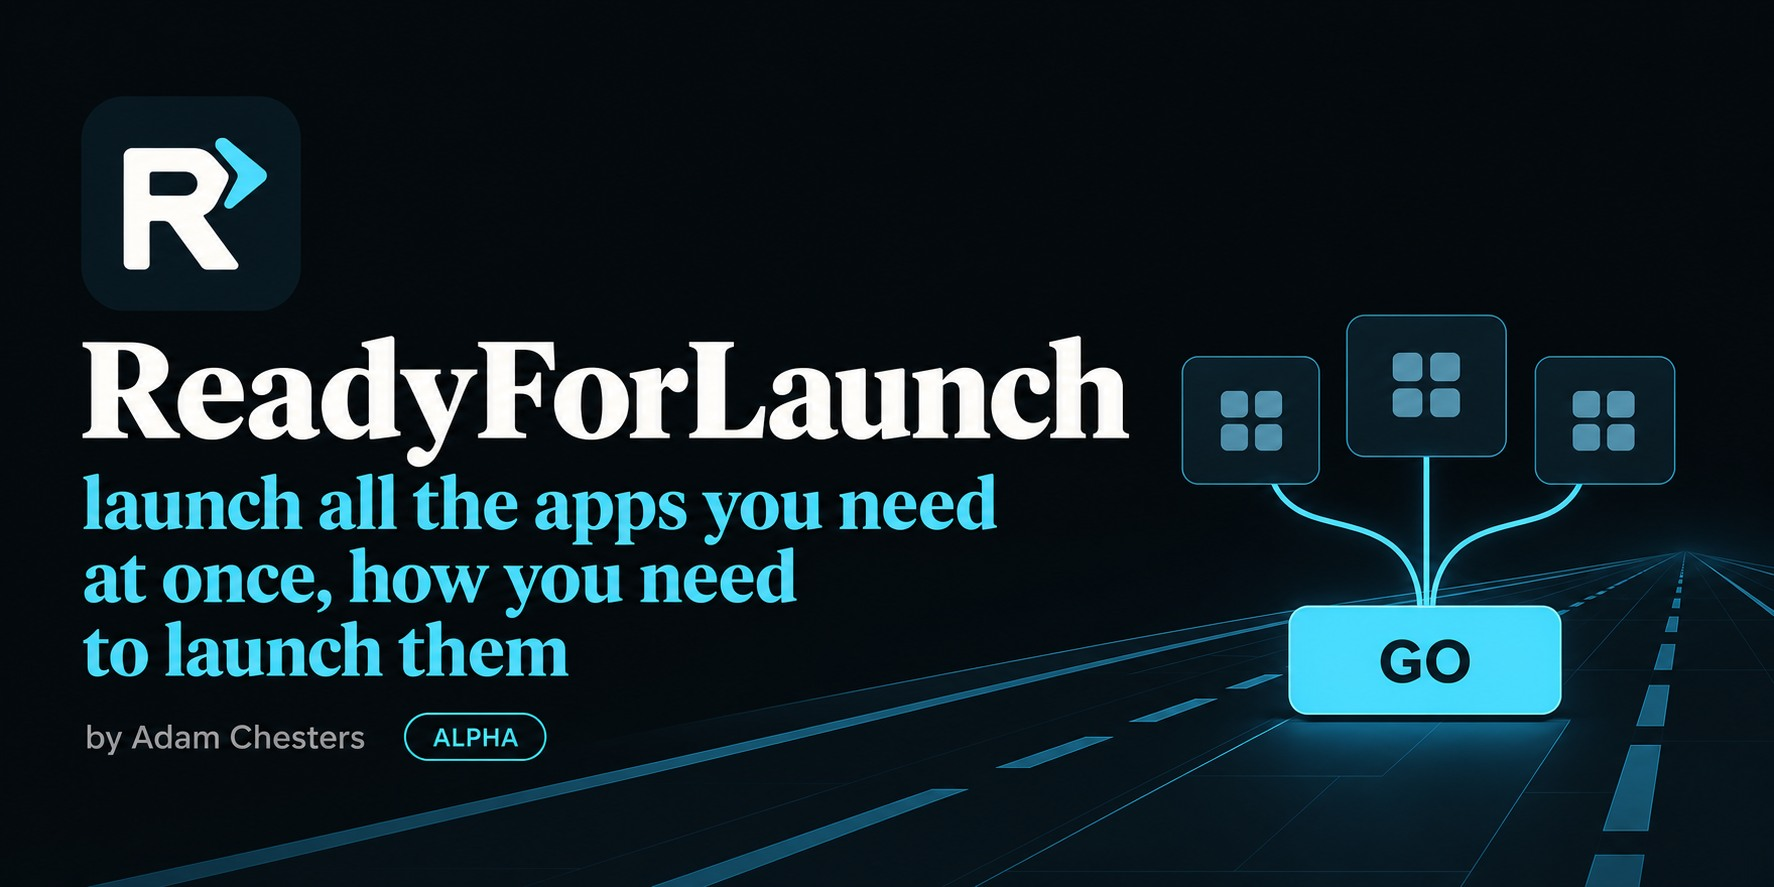
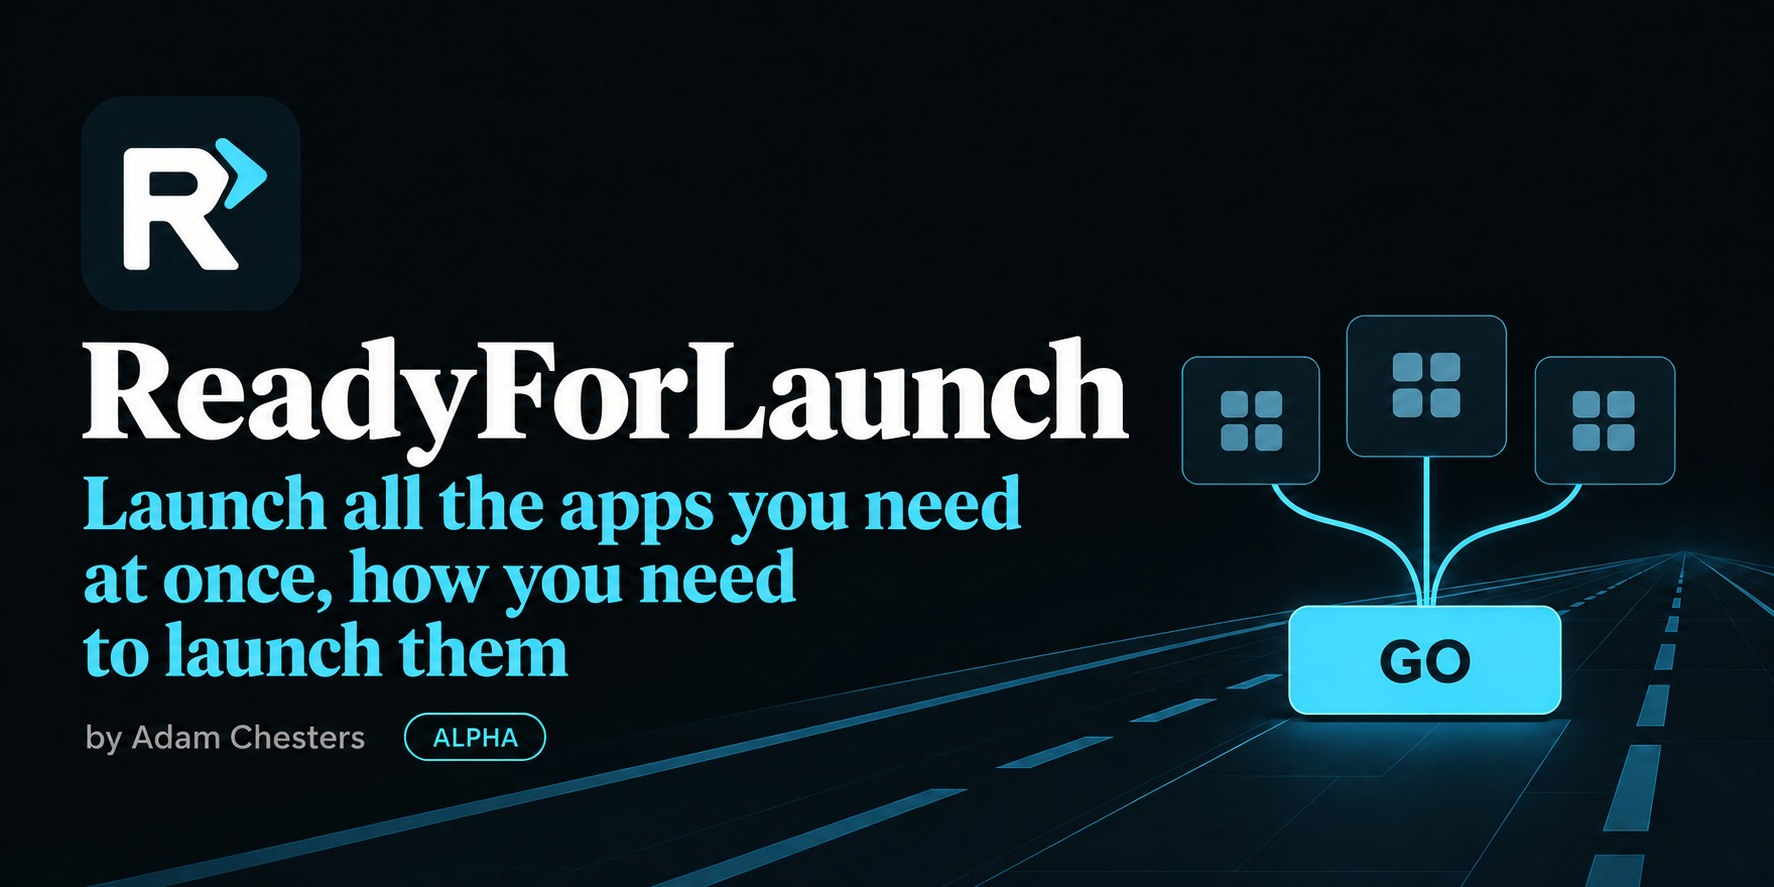
Capitalise social preview tagline and verify upload size

diff --git a/assets/README.md b/assets/README.md
@@ -6,6 +6,6 @@ ReadyForLaunch.png is the generated master. ReadyForLaunch.ico contains 16, 24, 
 
 ## Social preview
 
-[social-preview.jpg](social-preview.jpg) is the GitHub/social sharing card: 1774 × 887 pixels (2:1), opaque JPG under 1 MB. Generated with OpenAI's built-in image tool on 9 September 2026 using the existing icon and app screenshot as references, then encoded as JPEG for GitHub's upload limit without changing the composition. The original prompt is in [social-preview-prompt.txt](social-preview-prompt.txt). The current revision follows the supplied PSVR2SimShaker social-card reference, retains the runway/app-launch illustration, and uses the requested tagline: "launch all the apps you need at once, how you need to launch them". Its built-in image-generation edit prompt is in [social-preview-v2-prompt.txt](social-preview-v2-prompt.txt).
+[social-preview.jpg](social-preview.jpg) is the GitHub/social sharing card: 1774 × 887 pixels (2:1), opaque JPG under 1 MB. Generated with OpenAI's built-in image tool on 9 September 2026 using the existing icon and app screenshot as references, then encoded as JPEG for GitHub's upload limit without changing the composition. The original prompt is in [social-preview-prompt.txt](social-preview-prompt.txt). The current revision follows the supplied PSVR2SimShaker social-card reference, retains the runway/app-launch illustration, and uses the requested tagline: "Launch all the apps you need at once, how you need to launch them". Style edit prompt: [v2](social-preview-v2-prompt.txt). Final capitalisation edit, made with the built-in image generator: [v3](social-preview-v3-prompt.txt). The final JPG is verified below 1 MB.
 
 Apply it in [repository Settings](https://github.com/AdamChesters/ReadyForLaunch/settings), under **Social preview → Edit → Upload an image**. Committing this file alone does not change the repository's social preview. See [GitHub's instructions](https://docs.github.com/en/repositories/managing-your-repositorys-settings-and-features/customizing-your-repository/customizing-your-repositorys-social-media-preview).
